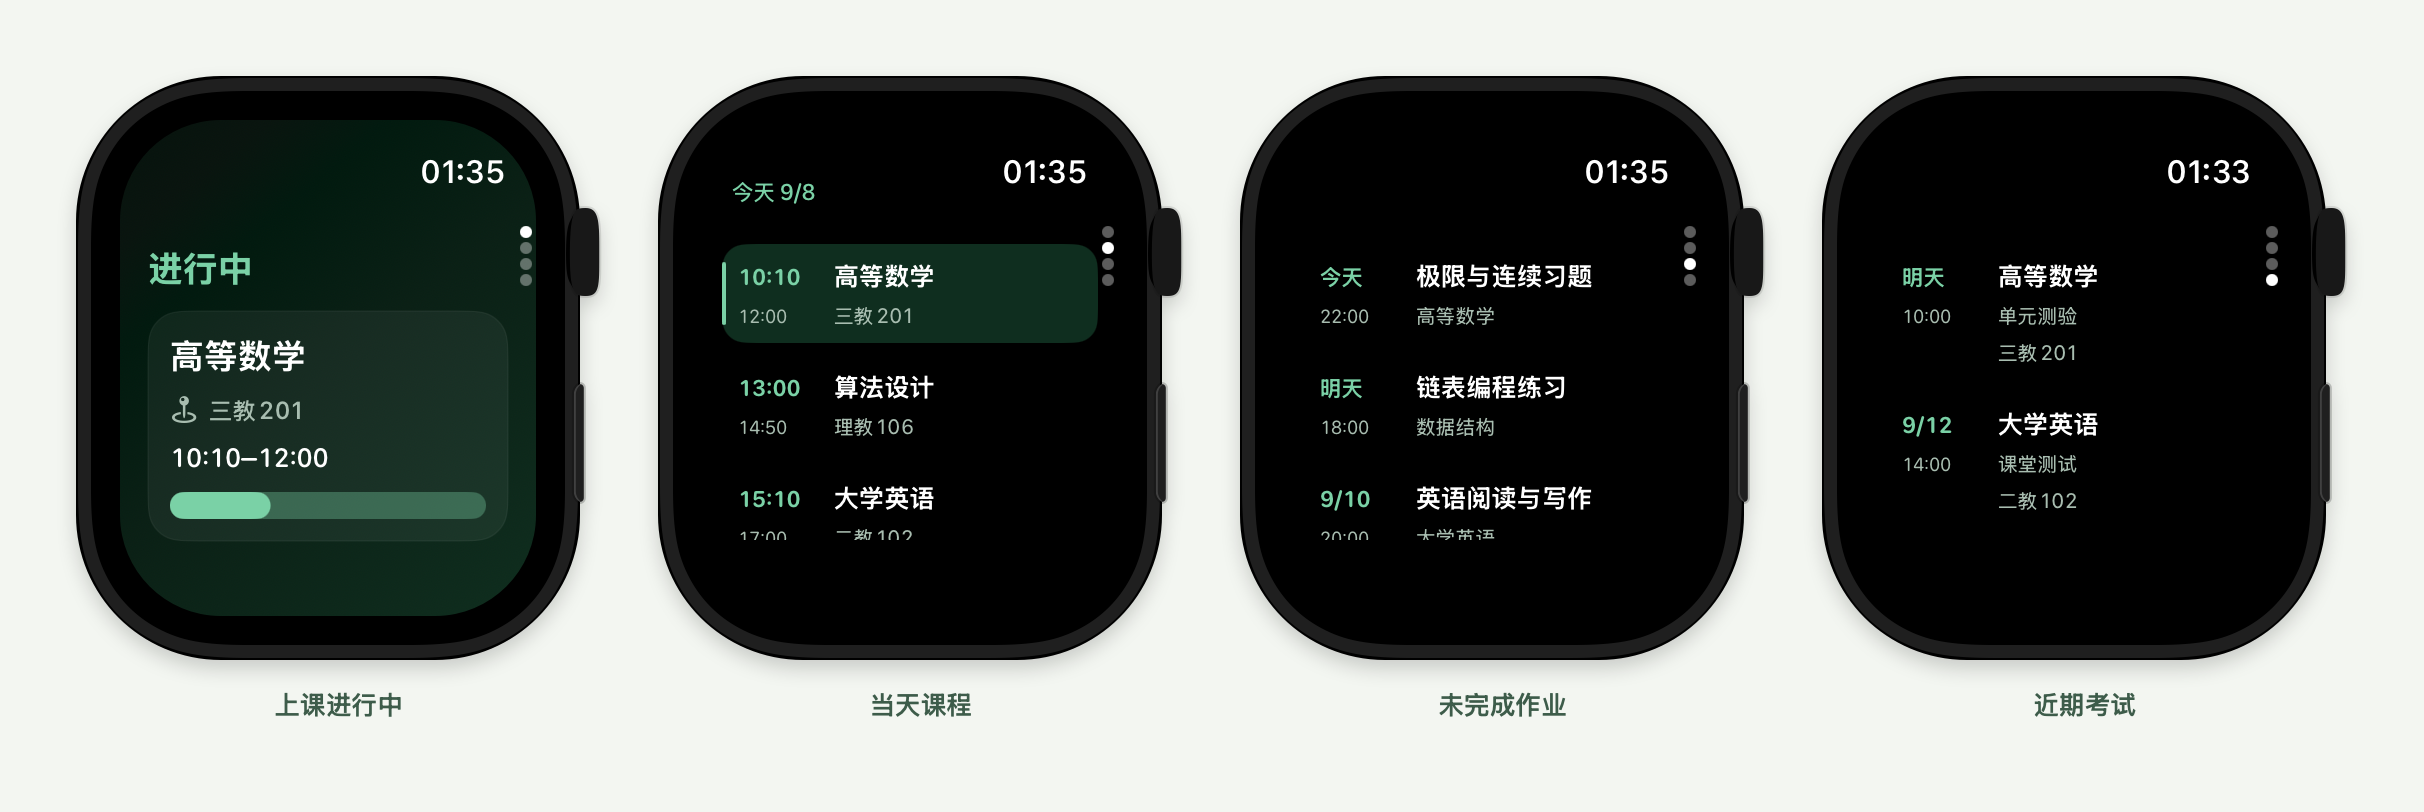
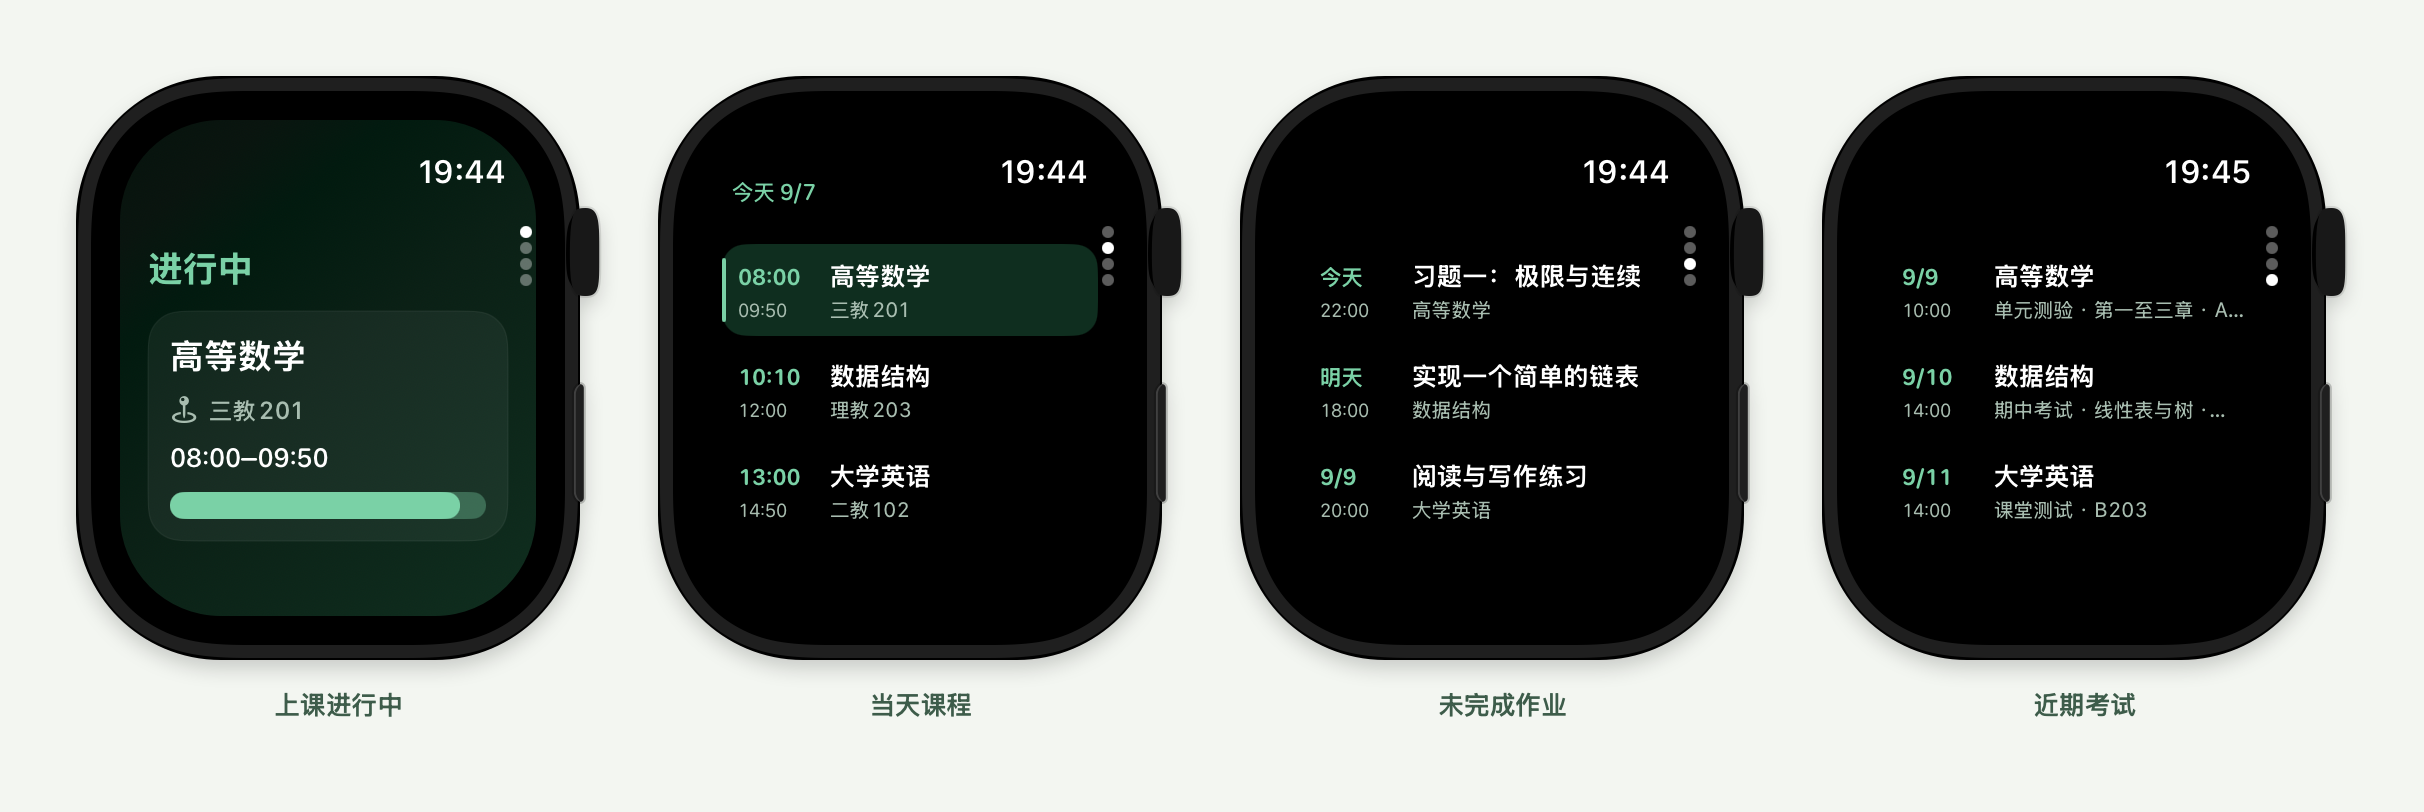
Fit three Watch entries per page and refresh the preview

diff --git a/ScheduleWatch/WatchDashboard.swift b/ScheduleWatch/WatchDashboard.swift
@@ -14,6 +14,8 @@ struct WatchDashboard: View {
     @ObservedObject var store: WatchStore
     let now: Date
     @State private var page = 0
+    private static let rowSpacing: CGFloat = 4
+    private static let syncNoticeHeight: CGFloat = 20
 
     private var snapshot: WatchSnapshot? { store.snapshot }
     private var calendar: Calendar { snapshot?.calendar ?? .current }
@@ -44,14 +46,22 @@ struct WatchDashboard: View {
             }
             .containerBackground(page == 0 ? WatchPalette.canvas : WatchPalette.plain, for: .navigation)
             .overlay(alignment: .bottom) {
-                if let snapshot, store.syncIssue || now.timeIntervalSince(snapshot.generatedAt) > 24 * 60 * 60 {
-                    Text("请打开手机更新数据").font(.system(size: 10))
-                        .foregroundStyle(WatchPalette.secondary).padding(.horizontal, 8).padding(.vertical, 3)
-                        .background(.black.opacity(0.8), in: Capsule()).padding(.bottom, 2)
-                }
+                if needsSyncNotice { syncNotice }
             }
         }
         .tint(WatchPalette.accent)
+    }
+
+    private var needsSyncNotice: Bool {
+        guard let snapshot else { return false }
+        return store.syncIssue || now.timeIntervalSince(snapshot.generatedAt) > 24 * 60 * 60
+    }
+
+    private var syncNotice: some View {
+        Text("请打开手机更新数据").font(.system(size: 10))
+            .foregroundStyle(WatchPalette.secondary).padding(.horizontal, 8)
+            .frame(height: Self.syncNoticeHeight - 2)
+            .background(.black.opacity(0.8), in: Capsule()).padding(.bottom, 2)
     }
 
     private var heroPage: some View {
@@ -146,47 +156,74 @@ struct WatchDashboard: View {
         let past = lesson.end <= now
         return timelineRow(time: time(lesson.start), secondaryTime: time(lesson.end),
                            title: lesson.name, subtitle: lesson.classroom,
+                           timing: "\(formatted(lesson.start, "M月d日 EEEE"))\n\(time(lesson.start))–\(time(lesson.end))",
                            ongoing: ongoing, past: past)
     }
 
-    /// Shared rhythm for courses, assignments and exams: when on the left,
-    /// what and where on the right. Long content grows instead of shrinking.
+    /// Three equal-height summaries fit within the ScrollView's actual viewport.
+    /// Full text remains available in a read-only detail view.
     private func timelineRow(time: String, secondaryTime: String, title: String,
-                             subtitle: String, detail: String = "",
+                             subtitle: String, detail: String = "", timing: String,
                              ongoing: Bool = false, past: Bool = false) -> some View {
-        return VStack(alignment: .leading, spacing: 5) {
-            HStack(alignment: .firstTextBaseline, spacing: 12) {
-                Text(time)
-                    .font(.system(size: 12, weight: .semibold, design: .rounded)).monospacedDigit()
-                    .foregroundStyle(past ? WatchPalette.secondary : WatchPalette.accent)
-                    .frame(width: 36, alignment: .leading)
-                Text(title).font(.system(size: 14, weight: .semibold))
-                    .lineLimit(2).fixedSize(horizontal: false, vertical: true)
-                    .foregroundStyle(past ? WatchPalette.secondary : .white)
-                    .frame(maxWidth: .infinity, alignment: .leading)
+        let summary = [subtitle, detail].filter { !$0.isEmpty }.joined(separator: " · ")
+        return NavigationLink {
+            timelineDetail(title: title, subtitle: subtitle, detail: detail, timing: timing)
+        } label: {
+            VStack(alignment: .leading, spacing: 2) {
+                HStack(alignment: .firstTextBaseline, spacing: 10) {
+                    Text(time)
+                        .font(.system(size: 12, weight: .semibold, design: .rounded)).monospacedDigit()
+                        .foregroundStyle(past ? WatchPalette.secondary : WatchPalette.accent)
+                        .frame(width: 36, alignment: .leading)
+                    Text(title).font(.system(size: 14, weight: .semibold))
+                        .lineLimit(1)
+                        .foregroundStyle(past ? WatchPalette.secondary : .white)
+                        .frame(maxWidth: .infinity, alignment: .leading)
+                }
+                HStack(alignment: .firstTextBaseline, spacing: 10) {
+                    Text(secondaryTime).font(.system(size: 10, design: .rounded)).monospacedDigit()
+                        .frame(width: 36, alignment: .leading)
+                    Text(summary.isEmpty ? " " : summary)
+                        .font(.system(size: 11)).lineLimit(1)
+                        .frame(maxWidth: .infinity, alignment: .leading)
+                }
+                .foregroundStyle(WatchPalette.secondary)
             }
-            HStack(alignment: .firstTextBaseline, spacing: 12) {
-                Text(secondaryTime).font(.system(size: 10, design: .rounded)).monospacedDigit()
-                    .frame(width: 36, alignment: .leading)
-                Text(subtitle.isEmpty ? " " : subtitle)
-                    .font(.system(size: 11)).lineLimit(1)
-                    .frame(maxWidth: .infinity, alignment: .leading)
-            }
-            .foregroundStyle(WatchPalette.secondary)
-            if !detail.isEmpty {
-                Text(detail).font(.system(size: 11)).foregroundStyle(WatchPalette.secondary)
-                    .lineLimit(2).fixedSize(horizontal: false, vertical: true)
-                    .padding(.leading, 48)
-            }
+            .padding(.horizontal, 8)
+            .frame(maxWidth: .infinity, maxHeight: .infinity, alignment: .leading)
+            .contentShape(Rectangle())
         }
-        .padding(.horizontal, 8).padding(.vertical, 7)
+        .buttonStyle(.plain)
+        .containerRelativeFrame(.vertical) { available, _ in
+            // Round down so fractional pixels cannot create a tiny scroll range.
+            floor(max(0, available - 2 * Self.rowSpacing) / 3)
+        }
         .background(ongoing ? WatchPalette.pine : .clear, in: RoundedRectangle(cornerRadius: 12))
         .overlay(alignment: .leading) {
             if ongoing {
-                Capsule().fill(WatchPalette.accent).frame(width: 2).padding(.vertical, 9)
+                Capsule().fill(WatchPalette.accent).frame(width: 2).padding(.vertical, 7)
             }
         }
         .accessibilityElement(children: .combine)
+        .accessibilityHint("查看完整信息")
+    }
+
+    private func timelineDetail(title: String, subtitle: String, detail: String, timing: String) -> some View {
+        ScrollView {
+            VStack(alignment: .leading, spacing: 12) {
+                Text(title).font(.title3.weight(.semibold))
+                    .fixedSize(horizontal: false, vertical: true)
+                Text(timing).font(.system(.body, design: .rounded)).monospacedDigit()
+                    .foregroundStyle(WatchPalette.accent)
+                if !subtitle.isEmpty { Text(subtitle).font(.body).foregroundStyle(WatchPalette.secondary) }
+                if !detail.isEmpty { Text(detail).font(.body).foregroundStyle(WatchPalette.secondary) }
+            }
+            .frame(maxWidth: .infinity, alignment: .leading)
+            .padding(.horizontal, 10).padding(.vertical, 8)
+        }
+        .scrollBounceBehavior(.basedOnSize)
+        .navigationTitle("")
+        .containerBackground(.black, for: .navigation)
     }
 
     private var assignmentPage: some View {
@@ -200,7 +237,8 @@ struct WatchDashboard: View {
                             timelineRow(time: item.dueDate < now ? "已逾期" : shortDay(item.dueDate),
                                         secondaryTime: item.dueDate < now ? formatted(item.dueDate, "M/d") : time(item.dueDate),
                                         title: item.title,
-                                        subtitle: item.title.contains(item.courseName) ? "" : item.courseName)
+                                        subtitle: item.title.contains(item.courseName) ? "" : item.courseName,
+                                        timing: "\(item.dueDate < now ? "已逾期 · " : "截止 ")\(formatted(item.dueDate, "M月d日 HH:mm"))")
                                 .accessibilityLabel("\(item.title)，\(item.courseName)，\(item.dueDate < now ? "已逾期，" : "")截止 \(formatted(item.dueDate, "M月d日 HH:mm"))")
                         }
                     }
@@ -222,7 +260,7 @@ struct WatchDashboard: View {
                             timelineRow(time: shortDay(item.date), secondaryTime: time(item.date),
                                         title: item.courseName.isEmpty ? item.title : item.courseName,
                                         subtitle: item.courseName.isEmpty || item.title == item.courseName ? "" : item.title,
-                                        detail: item.detail)
+                                        detail: item.detail, timing: formatted(item.date, "M月d日 HH:mm"))
                         }
                     }
                 }
@@ -232,13 +270,17 @@ struct WatchDashboard: View {
         .accessibilityIdentifier("watch-exams")
     }
 
-    private func fittingList<Content: View>(spacing: CGFloat = 6, @ViewBuilder content: () -> Content) -> some View {
+    private func fittingList<Content: View>(@ViewBuilder content: () -> Content) -> some View {
         ScrollView {
-            VStack(alignment: .leading, spacing: spacing, content: content)
+            VStack(alignment: .leading, spacing: Self.rowSpacing, content: content)
+                .scrollTargetLayout()
                 .frame(maxWidth: .infinity, alignment: .leading)
         }
+        .contentMargins(.vertical, 0)
+        .scrollTargetBehavior(.viewAligned)
         .scrollBounceBehavior(.basedOnSize)
         .frame(maxWidth: .infinity, maxHeight: .infinity, alignment: .topLeading)
+        .padding(.bottom, needsSyncNotice ? Self.syncNoticeHeight : 0)
     }
 
     private func emptyState(_ symbol: String, title: String) -> some View {

diff --git a/README.md b/README.md
@@ -22,7 +22,7 @@
 - 作业、考试与只需标题的宽松计划。
 - Insights 中的 Lulu / Nai 宠物，通过触碰、动画和模板对白互动，不调用语言模型。
 - 北大教学网官方网页登录、公告查看、作业导入与课程资料下载，需要使用者自己的账号。
-- 手表四页：下一节课／进行中、自动日课表、最近 3 项未完成作业、未来 5 天考试。手表只同步和显示，没有编辑、完成、宠物或教学网操作。
+- 手表四页：下一节课／进行中、自动日课表、最近 3 项未完成作业、未来 5 天考试。手表只同步和显示，没有编辑、完成、宠物或教学网操作。列表每屏完整显示三项，较长内容可点开查看详情。
 
 ## 安装准备
 
